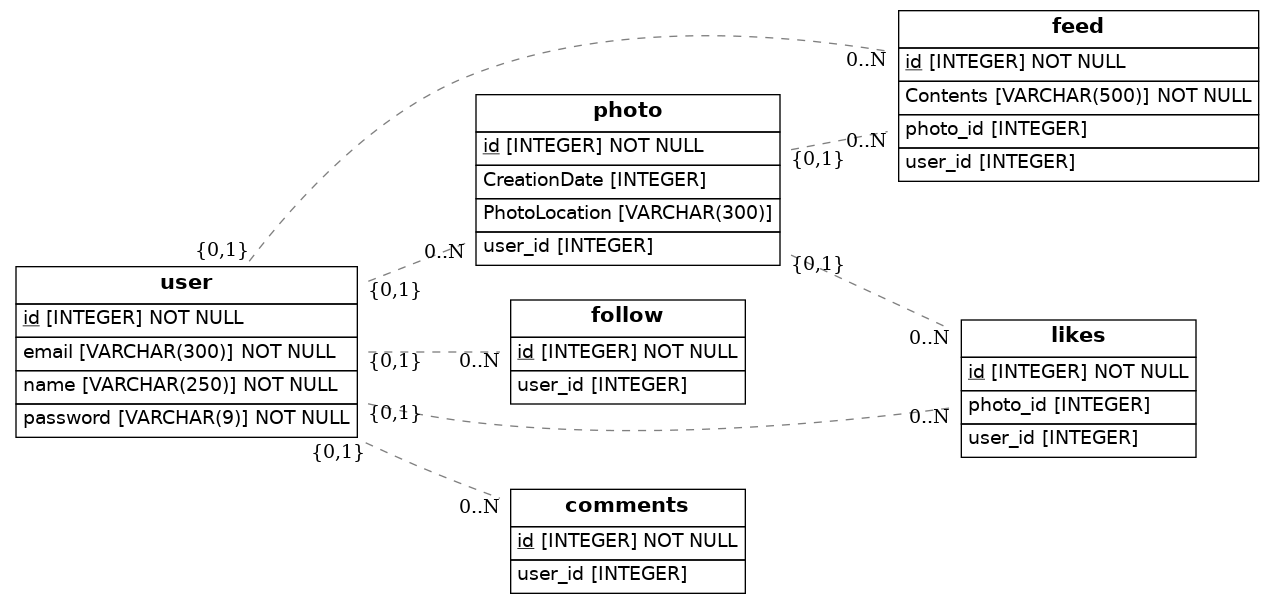
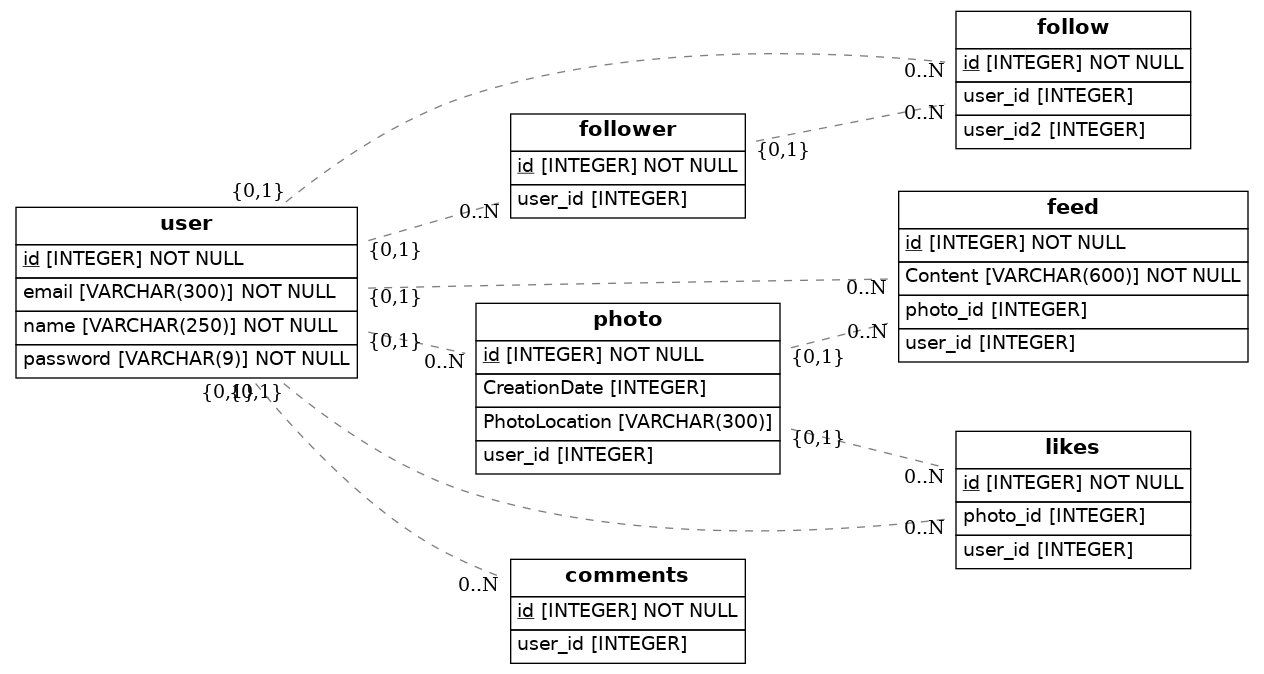
FIX: follower

Changed region(s): [[0.0, 0.0, 0.9873, 0.8642], [0.3394, 0.8046, 0.5862, 0.9834], [0.6171, 0.5066, 0.6479, 0.5364]]

diff --git a/src/models.py b/src/models.py
@@ -17,12 +17,13 @@ class User(Base):
     email = Column(String(300), nullable=False)
     password = Column (String(9), nullable=False)
 
-# class Follower(Base):
-#     __tablename__ = 'follower'
-#     id = Column(Integer, primary_key=True)
-#     name = Column(String(250), nullable=False)
-#     email = Column(String(300), nullable=False)
-#     password = Column (String(9), nullable=False)
+
+class Follower(Base):
+    __tablename__ = 'follower'
+    id = Column(Integer, primary_key=True)
+    user_id = Column(Integer, ForeignKey('user.id'))
+    user = relationship(User)
+   
 
 
 class Photo(Base):
@@ -38,7 +39,7 @@ class Photo(Base):
 class FeedItem(Base):
     __tablename__ = 'feed'
     id = Column(Integer, primary_key=True)
-    Contents = Column(String(500), nullable = False)
+    Content = Column(String(600), nullable = False)
     photo_id = Column(Integer, ForeignKey('photo.id'))
     photo = relationship(Photo)
     user_id = Column(Integer, ForeignKey('user.id'))
@@ -49,6 +50,8 @@ class Follow(Base):
     id = Column(Integer, primary_key=True)
     user_id = Column(Integer, ForeignKey('user.id'))
     user = relationship(User)
+    user_id2 = Column(Integer, ForeignKey('follower.id'))
+    user2 = relationship(Follower)
    
   
 
@@ -63,7 +66,7 @@ class Likes(Base):
 class Comments(Base):
     __tablename__ = 'comments'
     id = Column(Integer, primary_key=True)
-    comments: Column(String(500))
+    Comments: Column(String(500))
     CreationDate: Column(Integer)
     user_id = Column(Integer, ForeignKey('user.id'))
     user = relationship(User)
